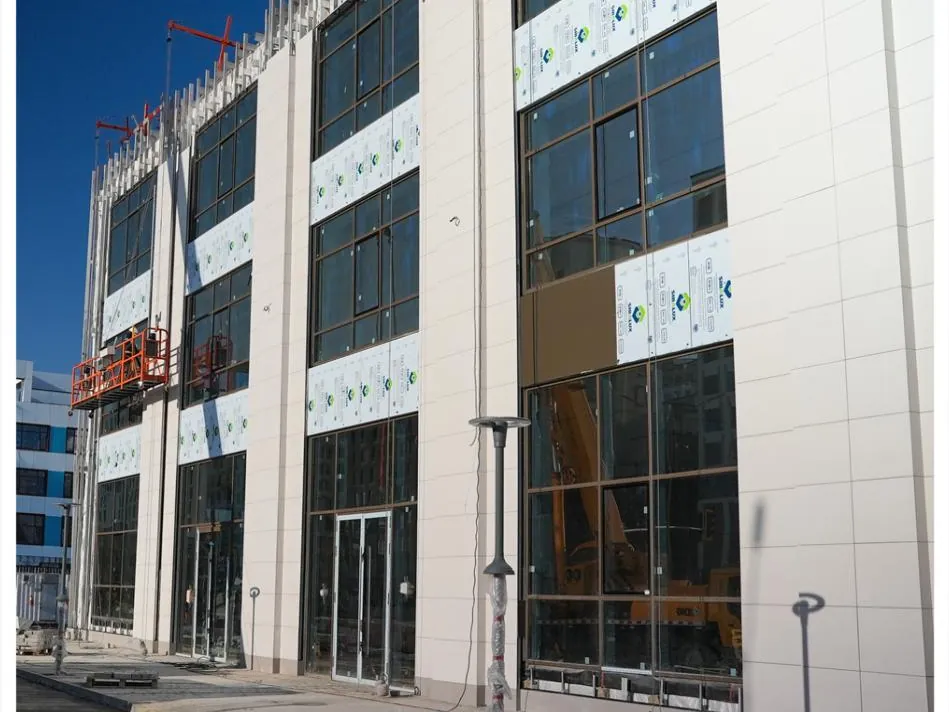
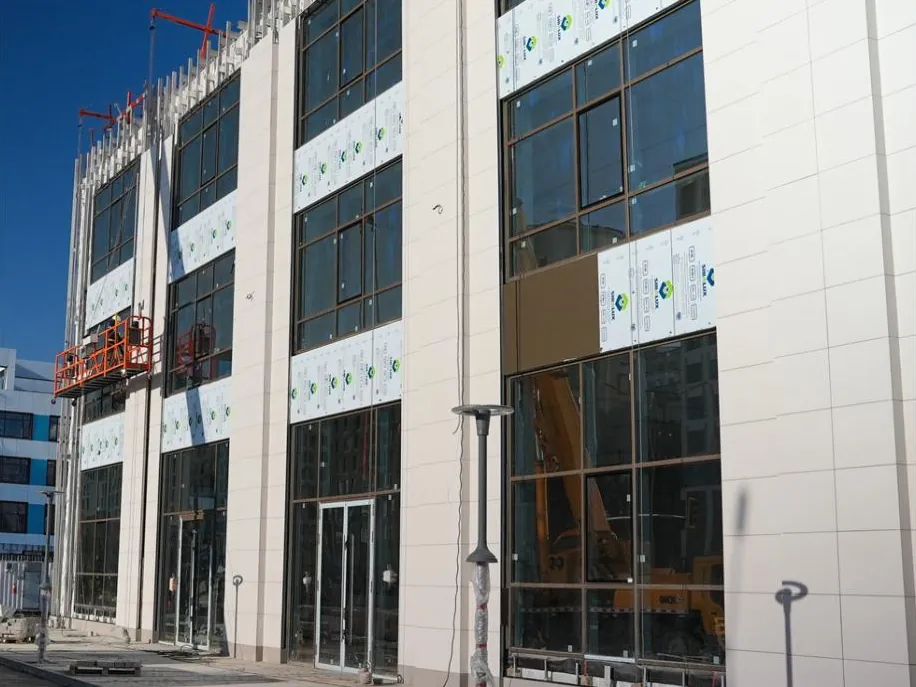
Кадр Bay Plaza в объектах без белых полей

diff --git a/index.html b/index.html
@@ -29,7 +29,7 @@
 <link href="https://fonts.googleapis.com/css2?family=Manrope:wght@300;400;500;600&display=swap" rel="stylesheet">
 <link rel="preload" as="image" href="assets/hero-bayplaza.webp" media="(min-width: 901px)">
 <link rel="preload" as="image" href="assets/hero-bayplaza-m.webp" media="(max-width: 900px)">
-<link rel="stylesheet" href="styles.css?v=20261103-1">
+<link rel="stylesheet" href="styles.css?v=20261103-2">
 <script>document.documentElement.classList.add("js")</script>
   <script src="https://lead-bot.sultan-askarov-kz.workers.dev/t.js" data-site="ideeshowroom" defer></script>
 <script type="application/ld+json">
@@ -353,7 +353,7 @@
         <p class="obj-cap"><b>Клубный дом Dostyq300, Алматы</b><span>Керамогранит Levantina 450&nbsp;м², Dekton 2&nbsp;820&nbsp;м², HPL Bruag 1&nbsp;070&nbsp;м²</span></p>
       </li>
       <li class="obj">
-        <figure class="ph r43 has-img hang"><img src="assets/obj-bayplaza.webp" width="949" height="712" alt="БЦ Bay Plaza, Астана - монтаж фасадного керамогранита" loading="lazy" decoding="async"></figure>
+        <figure class="ph r43 has-img hang"><img src="assets/obj-bayplaza.webp" width="916" height="687" alt="БЦ Bay Plaza, Астана - монтаж фасадного керамогранита" loading="lazy" decoding="async"></figure>
         <p class="obj-cap"><b>БЦ Bay Plaza, Астана</b><span>Фасадный керамогранит 2&nbsp;500&nbsp;м², керамогранит в интерьере 2&nbsp;500&nbsp;м²</span></p>
       </li>
       <li class="obj">
@@ -495,6 +495,6 @@
   <symbol id="logo-word" viewBox="0 0 434 61"><defs><path id="lw86" d="M.3919983 .45599366 .30999757 .37298585C.27598573 .4059906 .24598694 .4229889 .21899414 .4229889 .20399475 .4229889 .19198609 .41999818 .18399048 .4139862 .1749878 .40699769 .17098999 .39898683 .17098999 .3899994 .17098999 .3829956 .17399597 .37599183 .1789856 .36999513 .18399048 .3639984 .19799805 .35598756 .21899414 .34599305L.2679901 .32099916C.31900025 .29599 .35398866 .269989 .37298585 .24398804 .3929901 .21798706 .4019928 .18699646 .4019928 .1519928 .4019928 .10499573 .3849945 .06599426 .34999085 .033996583 .31498719 .0029907227 .2689972-.013000488 .21099854-.013000488 .1329956-.013000488 .070999149 .016998291 .024993897 .07798767L.10699463 .16699219C.12298584 .14898682 .14099121 .13398743 .1619873 .12298584 .18299866 .11199951 .20199585 .10598755 .21798706 .10598755 .23599243 .10598755 .25 .10998535 .26098634 .11898804 .27198792 .1269989 .2769928 .13699341 .2769928 .147995 .2769928 .16799927 .2579956 .18798828 .21899414 .20799256L.17399597 .22999573C.08799744 .272995 .04499817 .32699586 .04499817 .3919983 .04499817 .43399049 .06098938 .46998597 .09399414 .5 .12599182 .5289917 .16699219 .5439911 .21798706 .5439911 .2519989 .5439911 .28399659 .5359955 .31498719 .5209961 .34498597 .5059967 .37098695 .48399354 .3919983 .45599366Z"/><path id="lw75" d="M.067993167 .73599246H.20098877V.47698976C.22698975 .49899293 .25299073 .5159912 .2789917 .5269928 .30599977 .5379944 .33198548 .5439911 .35899354 .5439911 .4119873 .5439911 .45599366 .526001 .49198915 .4889984 .522995 .45799256 .5379944 .4119873 .5379944 .35099793V0H.40699769V.23298645C.40699769 .2939911 .4039917 .33599855 .397995 .35699464 .3929901 .3789978 .3829956 .394989 .36799623 .4059906 .35398866 .4169922 .33699037 .42199708 .31599427 .42199708 .2889862 .42199708 .2659912 .41299439 .24699402 .394989 .22799683 .3769989 .21398926 .35299684 .20698548 .32199098 .20298767 .30599977 .20098877 .269989 .20098877 .21299744V0H.067993167V.73599246Z"/><path id="lw82" d="M.31698609 .5439911C.36698915 .5439911 .4139862 .5319977 .45799256 .5069885 .5029907 .48199464 .5369873 .44799806 .56199648 .40499879 .58699038 .3619995 .598999 .31599427 .598999 .2659912 .598999 .21598816 .58699038 .16899109 .56199648 .12599182 .5369873 .08198547 .5029907 .04798889 .45999146 .023986817 .4169922-.0010070801 .36898805-.013000488 .31698609-.013000488 .24099732-.013000488 .17599488 .01399231 .12199402 .067993167 .067993167 .12199402 .040985109 .18798828 .040985109 .2649994 .040985109 .34799195 .07199097 .4169922 .1329956 .47200013 .18598938 .519989 .24699402 .5439911 .31698609 .5439911M.31900025 .4189911C.2769928 .4189911 .24299622 .40499879 .21499634 .37599183 .18798828 .34700013 .17399597 .31098939 .17399597 .2659912 .17399597 .21998596 .18798828 .18199158 .21499634 .1539917 .24198914 .125 .2769928 .11099243 .31799317 .11099243 .3600006 .11099243 .394989 .12599182 .4229889 .1539917 .44999696 .18299866 .46398927 .21998596 .46398927 .2659912 .46398927 .31098939 .44999696 .34799195 .4229889 .3769989 .3959961 .40499879 .36099244 .4189911 .31900025 .4189911Z"/><path id="lw90" d="M.008987427 .5309906H.13798523L.24598694 .22898865 .36099244 .5309906H.44099427L.55400088 .23199463 .6609955 .5309906H.79100039L.59799197 0H.5139923L.3999939 .30299378 .2829895 0H.19999695L.008987427 .5309906Z"/><path id="lw85" d="M.035995485 .5309906H.15098572V.46398927C.16299439 .48999024 .17999268 .5099945 .19999695 .5239868 .22099304 .5369873 .24299622 .5439911 .2669983 .5439911 .28399659 .5439911 .3019867 .5399933 .32099916 .5299988L.27999879 .4149933C.2639923 .4229889 .25099183 .4269867 .24099732 .4269867 .22099304 .4269867 .20399475 .4139862 .18998719 .3889923 .17599488 .3639984 .16899109 .31399537 .16899109 .23999024V.21398926 0H.035995485V.5309906Z"/><path id="lw80" d="M.06599426 .5309906H.19898987V.46899415C.22200012 .49398805 .24699402 .5130005 .2749939 .5249939 .30299378 .5379944 .33399964 .5439911 .36698915 .5439911 .3999939 .5439911 .42999269 .5359955 .45700074 .519989 .48298646 .5029907 .5049896 .47898866 .5209961 .44799806 .5419922 .47898866 .56799319 .5029907 .598999 .519989 .6299896 .5359955 .6639862 .5439911 .69999697 .5439911 .73799136 .5439911 .7719879 .5349884 .7999878 .5179901 .82899478 .5 .84999087 .47698976 .8619995 .44898988 .875 .42099 .8809967 .375 .8809967 .31098939V0H.7480011V.2679901C.7480011 .32798768 .7409973 .36898805 .72499087 .3899994 .70999148 .41099549 .68699648 .42199708 .6569977 .42199708 .6339874 .42199708 .61299136 .41600038 .59498599 .40299989 .57699587 .3899994 .5629883 .37199403 .55400088 .34899903 .54599 .32598878 .54100039 .2889862 .54100039 .23899842V0H.4079895V.2559967C.4079895 .3039856 .40499879 .33799745 .39698792 .35899354 .3899994 .37998963 .37998963 .3959961 .3659973 .40699769 .35198976 .4169922 .33399964 .42199708 .31399537 .42199708 .2919922 .42199708 .27198792 .41600038 .2539978 .4019928 .23498535 .3889923 .22200012 .37098695 .21299744 .34700013 .20399475 .32398988 .19898987 .28599549 .19898987 .23498535V0H.06599426V.5309906Z"/><path id="lw76" d="M.11999512 .7489929C.14299011 .7489929 .16299439 .7409973 .17999268 .723999 .19699097 .70700076 .20498657 .68699648 .20498657 .6629944 .20498657 .6389923 .19699097 .61898806 .17999268 .60198977 .1639862 .58499148 .14399719 .57699587 .12098694 .57699587 .09700012 .57699587 .07699585 .58599856 .05999756 .6029968 .042999269 .6199951 .034988405 .6399994 .034988405 .6649933 .034988405 .6879883 .042999269 .70799258 .05999756 .723999 .07598877 .7409973 .09599304 .7489929 .11999512 .7489929M.052993776 .5309906H.18598938V0H.052993776V.5309906Z"/><path id="lw71" d="M.45999146 .73599246H.59298709V0H.45999146V.056991579C.43399049 .03199768 .4079895 .01399231 .38198854 .0029907227 .35598756-.008010864 .32699586-.013000488 .29699708-.013000488 .22799683-.013000488 .16799927 .01399231 .117996219 .066986087 .067993167 .11999512 .042999269 .18598938 .042999269 .2649994 .042999269 .34599305 .066986087 .41299439 .115997318 .46598817 .1639862 .5179901 .22299195 .5439911 .29299928 .5439911 .32499696 .5439911 .35398866 .5379944 .38198854 .526001 .4099884 .5139923 .43598939 .49598695 .45999146 .47200013V.73599246M.31999208 .42199708C.2789917 .42199708 .24398804 .4079895 .21699524 .37799073 .18998719 .34899903 .17599488 .31199647 .17599488 .2669983 .17599488 .22099304 .18998719 .18299866 .21798706 .15299988 .24598694 .12399292 .27999879 .10899353 .31999208 .10899353 .3619995 .10899353 .39698792 .12399292 .4249878 .15299988 .45199586 .18199158 .46598817 .21998596 .46598817 .2669983 .46598817 .31298829 .45199586 .35099793 .4249878 .3789978 .39698792 .4079895 .3619995 .42199708 .31999208 .42199708Z"/><path id="lw72" d="M.598999 .22799683H.17098999C.1769867 .18998719 .19400025 .1599884 .21998596 .13798523 .24699402 .114990238 .2809906 .10398865 .32299806 .10398865 .37199403 .10398865 .4149933 .12199402 .44999696 .15699768L.56199648 .10398865C.5339966 .06399536 .5009918 .034988405 .46199037 .015991211 .4229889-.0040130617 .3769989-.013000488 .32299806-.013000488 .23999024-.013000488 .17298889 .0129852299 .11999512 .06599426 .067993167 .117996219 .041992189 .18399048 .041992189 .2630005 .041992189 .34298707 .067993167 .41099549 .11999512 .46398927 .17298889 .5169983 .23799134 .5439911 .31698609 .5439911 .3999939 .5439911 .46798707 .5169983 .5209961 .46398927 .57299807 .41099549 .598999 .34098817 .598999 .25299073V.22799683M.46598817 .33198548C.45700074 .36099244 .43998719 .3849945 .4139862 .40299989 .3880005 .42099 .35798646 .42999269 .32398988 .42999269 .2869873 .42999269 .2539978 .41999818 .22599793 .39898683 .20799256 .3869934 .19198609 .3639984 .1769867 .33198548H.46598817Z"/></defs><g fill="#b4af9b"><use href="#lw76" transform="matrix(67.098,0,0,-67.098,1.4888,44.75348)"/><use href="#lw71" transform="matrix(67.098,0,0,-67.098,12.875603,44.75348)"/><use href="#lw72" transform="matrix(67.098,0,0,-67.098,52.477006,44.75348)"/><use href="#lw72" transform="matrix(67.098,0,0,-67.098,90.73651,44.75348)"/></g><g fill="currentColor"><use href="#lw86" transform="matrix(67.098,0,0,-67.098,128.996,44.75348)"/><use href="#lw75" transform="matrix(67.098,0,0,-67.098,153.8249,44.75348)"/><use href="#lw82" transform="matrix(67.098,0,0,-67.098,189.4003,44.75348)"/><use href="#lw90" transform="matrix(67.098,0,0,-67.098,227.65979,44.75348)"/><use href="#lw85" transform="matrix(67.098,0,0,-67.098,276.6326,44.75348)"/><use href="#lw82" transform="matrix(67.098,0,0,-67.098,293.3981,44.75348)"/><use href="#lw82" transform="matrix(67.098,0,0,-67.098,331.6573,44.75348)"/><use href="#lw80" transform="matrix(67.098,0,0,-67.098,369.9165,44.75348)"/></g></symbol>
 </svg>
 
-<script src="script.js?v=20261103-1" defer></script>
+<script src="script.js?v=20261103-2" defer></script>
 </body>
 </html>
